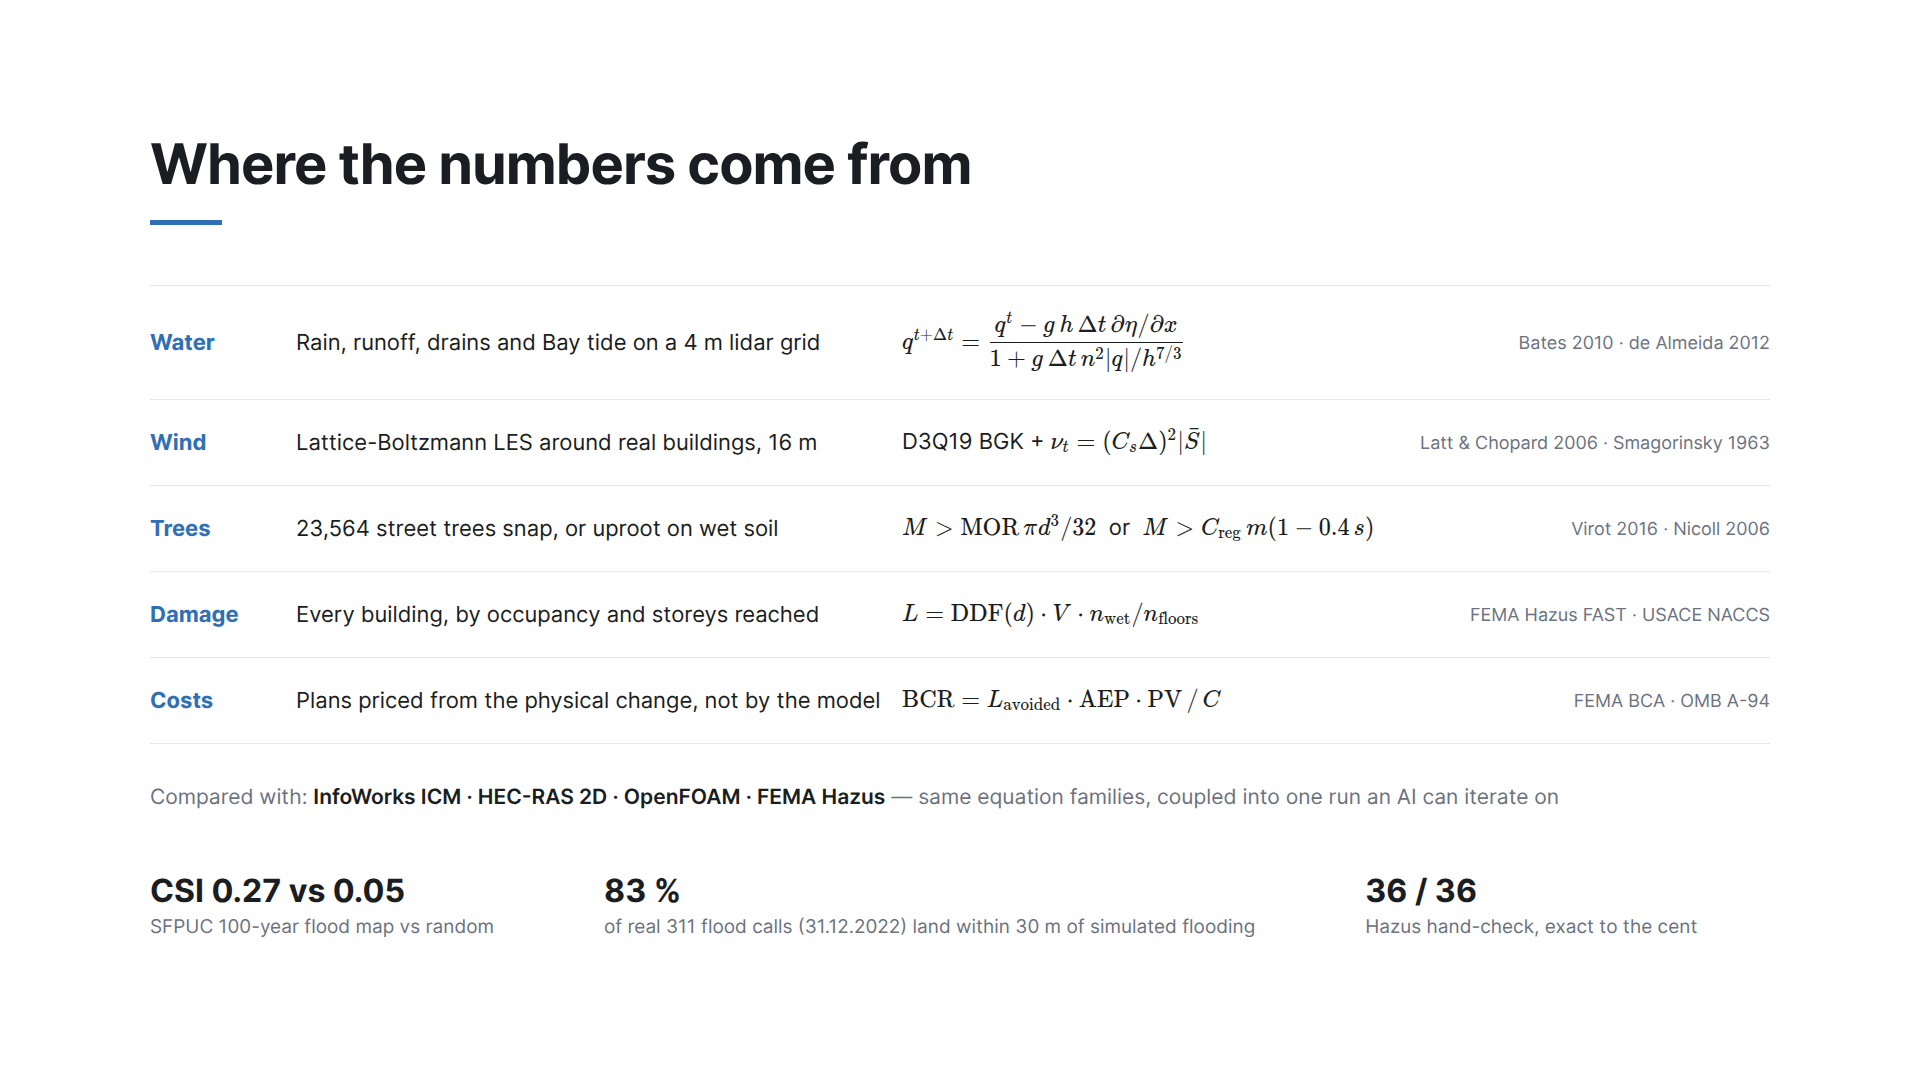
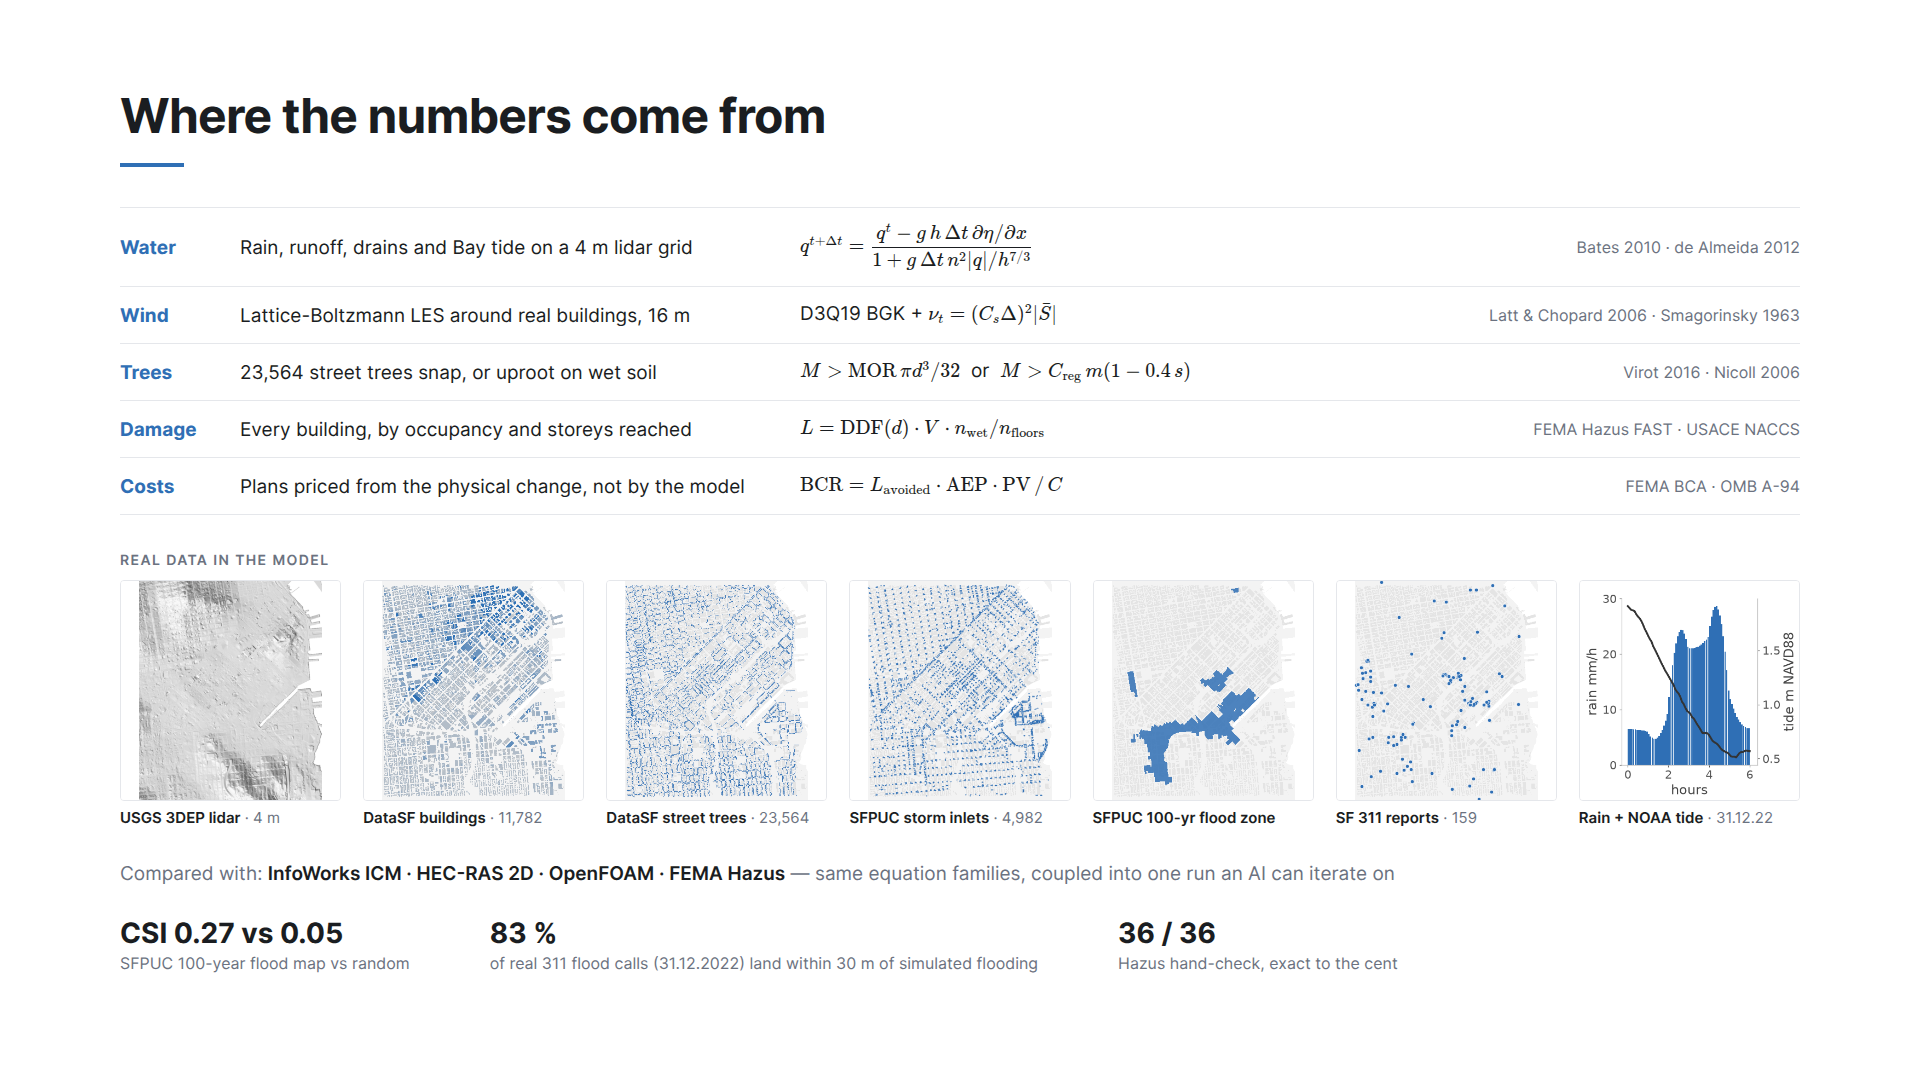
Slide: fit to viewport, data source thumbnails

diff --git a/web/public/slide/index.html b/web/public/slide/index.html
@@ -2,6 +2,7 @@
 <html lang="en">
 <head>
 <meta charset="utf-8">
+<meta name="viewport" content="width=device-width, initial-scale=1">
 <title>Where the numbers come from</title>
 <link rel="stylesheet" href="https://cdn.jsdelivr.net/npm/katex@0.16.11/dist/katex.min.css">
 <script defer src="https://cdn.jsdelivr.net/npm/katex@0.16.11/dist/katex.min.js"></script>
@@ -10,27 +11,34 @@
 <style>
   :root{--ink:#1a1d21;--grey:#6b7280;--rule:#e5e7eb;--blue:#2f6fb5}
   *{box-sizing:border-box;margin:0;padding:0}
-  html,body{width:1920px;height:1080px;background:#fff;color:var(--ink);font-family:Inter,"Helvetica Neue",Arial,sans-serif;overflow:hidden}
-  .slide{width:1920px;height:1080px;padding:130px 150px 0}
-  h1{font-size:56px;font-weight:650;letter-spacing:-1px}
-  h1::after{content:"";display:block;width:72px;height:5px;background:var(--blue);margin-top:22px}
-  table{border-collapse:collapse;width:100%;margin-top:60px}
-  td{padding:27px 0;border-bottom:1px solid var(--rule);vertical-align:middle;font-size:22px}
+  html,body{width:100%;height:100%;background:#fff;overflow:hidden}
+  .stage{position:absolute;left:50%;top:50%;width:1920px;height:1080px;transform-origin:center center;
+    transform:translate(-50%,-50%) scale(var(--s,1));color:var(--ink);font-family:Inter,"Helvetica Neue",Arial,sans-serif;
+    padding:86px 120px 0}
+  h1{font-size:48px;font-weight:650;letter-spacing:-.8px}
+  h1::after{content:"";display:block;width:64px;height:4px;background:var(--blue);margin-top:18px}
+  table{border-collapse:collapse;width:100%;margin-top:40px;table-layout:fixed}
+  td{padding:15px 0;border-bottom:1px solid var(--rule);vertical-align:middle;font-size:19px;overflow:hidden}
   tr:first-child td{border-top:1px solid var(--rule)}
-  td.m{width:150px;font-weight:650;color:var(--blue)}
-  td.w{width:640px;color:var(--ink)}
-  td.e{width:540px}
-  td.e .katex{font-size:1.1em}
-  td.s{color:var(--grey);font-size:18px;text-align:right;white-space:nowrap}
-  .cmp{margin-top:40px;font-size:21px;color:var(--grey)}
+  td.m{width:120px;font-weight:650;color:var(--blue)}
+  td.w{width:560px}
+  td.e{width:520px}
+  td.e .katex{font-size:1.05em}
+  td.s{color:var(--grey);font-size:16px;text-align:right;white-space:nowrap}
+  .lbl{font-size:14px;letter-spacing:1.4px;text-transform:uppercase;color:var(--grey);margin:36px 0 12px;font-weight:600}
+  .data{display:grid;grid-template-columns:repeat(7,1fr);gap:22px}
+  .data figure img{width:100%;aspect-ratio:1/1;display:block;border:1px solid var(--rule);border-radius:4px}
+  .data figcaption{font-size:15px;color:var(--grey);margin-top:7px;line-height:1.3}
+  .data figcaption b{color:var(--ink);font-weight:600}
+  .cmp{margin-top:34px;font-size:19px;color:var(--grey)}
   .cmp b{color:var(--ink);font-weight:600}
-  .val{display:flex;gap:110px;margin-top:60px}
-  .val div{font-size:19px;color:var(--grey);line-height:1.4}
-  .val b{display:block;font-size:32px;font-weight:650;color:var(--ink)}
+  .val{display:flex;gap:80px;margin-top:30px}
+  .val div{font-size:16px;color:var(--grey);line-height:1.35}
+  .val b{display:block;font-size:28px;font-weight:650;color:var(--ink)}
 </style>
 </head>
 <body>
-<div class="slide">
+<div class="stage" id="stage">
   <h1>Where the numbers come from</h1>
   <table>
     <tr><td class="m">Water</td><td class="w">Rain, runoff, drains and Bay tide on a 4 m lidar grid</td>
@@ -49,6 +57,18 @@
       <td class="e">\(\mathrm{BCR}=L_{\rm avoided}\cdot\mathrm{AEP}\cdot\mathrm{PV}\,/\,C\)</td>
       <td class="s">FEMA BCA · OMB A-94</td></tr>
   </table>
+
+  <div class="lbl">Real data in the model</div>
+  <div class="data">
+    <figure><img src="img/1_terrain.png" alt=""><figcaption><b>USGS 3DEP lidar</b> · 4 m</figcaption></figure>
+    <figure><img src="img/2_buildings.png" alt=""><figcaption><b>DataSF buildings</b> · 11,782</figcaption></figure>
+    <figure><img src="img/3_trees.png" alt=""><figcaption><b>DataSF street trees</b> · 23,564</figcaption></figure>
+    <figure><img src="img/4_inlets.png" alt=""><figcaption><b>SFPUC storm inlets</b> · 4,982</figcaption></figure>
+    <figure><img src="img/5_flood100.png" alt=""><figcaption><b>SFPUC 100-yr flood zone</b></figcaption></figure>
+    <figure><img src="img/6_311.png" alt=""><figcaption><b>SF 311 reports</b> · 159</figcaption></figure>
+    <figure><img src="img/7_storm.png" alt=""><figcaption><b>Rain + NOAA tide</b> · 31.12.22</figcaption></figure>
+  </div>
+
   <p class="cmp">Compared with: <b>InfoWorks ICM · HEC-RAS 2D · OpenFOAM · FEMA Hazus</b> — same equation families, coupled into one run an AI can iterate on</p>
   <div class="val">
     <div><b>CSI 0.27 vs 0.05</b>SFPUC 100-year flood map vs random</div>
@@ -56,5 +76,9 @@
     <div><b>36 / 36</b>Hazus hand-check, exact to the cent</div>
   </div>
 </div>
+<script>
+  function fit(){var s=Math.min(innerWidth/1920,innerHeight/1080);document.getElementById('stage').style.setProperty('--s',s);}
+  addEventListener('resize',fit);fit();
+</script>
 </body>
 </html>

diff --git a/scripts/slide/gen_thumbs.py b/scripts/slide/gen_thumbs.py
@@ -1,0 +1,100 @@
+import json, sys
+import numpy as np, matplotlib
+matplotlib.use("Agg")
+import matplotlib.pyplot as plt
+from matplotlib.colors import LightSource, ListedColormap
+R = "/home/ubuntu/work/argonhack"
+sys.path.insert(0, R)
+OUT = R + "/web/public/slide/img/"
+BLUE = "#2f6fb5"
+d = np.load(R + "/data/grid/city.npz")
+meta = json.load(open(R + "/data/grid/meta.json"))
+x0, y0, dx, nx, ny = meta["x0"], meta["y0"], meta["dx"], meta["nx"], meta["ny"]
+ext = [x0, x0 + nx * dx, y0, y0 + ny * dx]
+z, bh, cover, f100 = d["z"], d["bldg_h"], d["cover"], d["flood100"]
+bay = cover == 3
+# light basemap: land, buildings slightly darker, bay white
+base = np.full((ny, nx, 3), 0.955)
+base[bh > 0] = 0.895
+base[bay] = 1.0
+
+def fig():
+    f = plt.figure(figsize=(4, 4), dpi=100)
+    ax = f.add_axes([0, 0, 1, 1]); ax.set_axis_off()
+    ax.set_xlim(ext[0], ext[1]); ax.set_ylim(ext[2], ext[3]); ax.set_aspect("equal")
+    # centre the portrait tile in a square canvas
+    w = ext[1] - ext[0]; h = ext[3] - ext[2]
+    pad = (h - w) / 2
+    ax.set_xlim(ext[0] - pad, ext[1] + pad)
+    return f, ax
+
+def save(f, name):
+    f.savefig(OUT + name, facecolor="white"); plt.close(f)
+
+def basemap(ax):
+    ax.imshow(base, origin="lower", extent=ext, interpolation="nearest")
+
+# 1 terrain hillshade
+f, ax = fig()
+zz = np.where(bay, np.nan, z)
+ls = LightSource(azdeg=315, altdeg=40)
+hs = ls.hillshade(np.nan_to_num(z, nan=-2.0), vert_exag=6, dx=dx, dy=dx)
+rgb = np.dstack([0.30 + 0.70 * hs] * 3)
+rgb[bay] = 1.0
+ax.imshow(rgb, origin="lower", extent=ext, interpolation="bilinear")
+save(f, "1_terrain.png")
+
+# 2 buildings by height
+f, ax = fig()
+img = np.full((ny, nx, 3), 0.96); img[bay] = 1.0
+hn = np.clip(bh / 60.0, 0, 1)
+c = np.array([0.18, 0.44, 0.71])
+for k in range(3):
+    ch = img[..., k]
+    ch[bh > 0] = (0.80 * (1 - hn) + c[k] * hn)[bh > 0]
+ax.imshow(img, origin="lower", extent=ext, interpolation="nearest")
+save(f, "2_buildings.png")
+
+# 3 trees
+t = json.load(open(R + "/data/grid/trees.json"))
+f, ax = fig(); basemap(ax)
+ax.scatter([a["x"] for a in t], [a["y"] for a in t], s=0.6, c=BLUE, linewidths=0, alpha=0.9)
+save(f, "3_trees.png")
+
+# 4 inlets
+il = json.load(open(R + "/data/grid/inlets.json"))
+f, ax = fig(); basemap(ax)
+ax.scatter([a["x"] for a in il], [a["y"] for a in il], s=2.2, c=BLUE, linewidths=0)
+save(f, "4_inlets.png")
+
+# 5 flood100
+f, ax = fig(); basemap(ax)
+m = np.ma.masked_where(f100 == 0, f100)
+ax.imshow(m, origin="lower", extent=ext, cmap=ListedColormap([BLUE]), interpolation="nearest", alpha=0.85)
+save(f, "5_flood100.png")
+
+# 6 311 reports
+v = json.load(open(R + "/data/grid/validation.json"))["311_2022_12_31"]
+f, ax = fig(); basemap(ax)
+ax.scatter([a["x"] for a in v], [a["y"] for a in v], s=22, c=BLUE, linewidths=0.5, edgecolors="white")
+save(f, "6_311.png")
+
+# 7 storm: rain bars + tide line
+from sim.storm import load_storm
+s = load_storm("dec31_2022")
+th = np.asarray(s.t) / 3600.0
+f = plt.figure(figsize=(4, 4), dpi=100)
+ax = f.add_axes([0.19, 0.16, 0.62, 0.76])
+ax.bar(th, s.rain_mm_h, width=(th[1] - th[0]) * 0.9, color=BLUE, align="edge")
+ax.set_ylabel("rain mm/h", fontsize=17, color="#444")
+ax2 = ax.twinx()
+ax2.plot(th, s.tide_m, color="#333", lw=2.5)
+ax.set_xticks([0,2,4,6]); ax.locator_params(axis="y", nbins=4); ax2.locator_params(axis="y", nbins=4)
+ax2.set_ylabel("tide m NAVD88", fontsize=17, color="#444")
+ax.set_xlabel("hours", fontsize=17, color="#444")
+for a in (ax, ax2):
+    a.tick_params(labelsize=15, colors="#555", length=3)
+    for sp in a.spines.values(): sp.set_color("#bbb")
+ax.spines["top"].set_visible(False); ax2.spines["top"].set_visible(False)
+f.savefig(OUT + "7_storm.png", facecolor="white"); plt.close(f)
+print("ok", len(t), len(il), len(v), float(np.max(s.rain_mm_h)))
